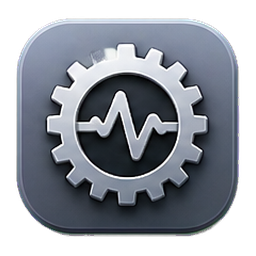
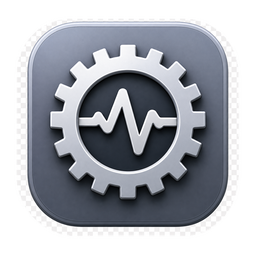
Add code editor AI retry support

diff --git a/src/styles/remote-desktop/_code-editor.scss b/src/styles/remote-desktop/_code-editor.scss
@@ -573,14 +573,6 @@
 .code-editor-ai-message {
   margin-bottom: 10px;
 
-  > span {
-    display: block;
-    margin-bottom: 4px;
-    color: var(--muted);
-    font-size: 11px;
-    font-weight: 720;
-  }
-
   > p {
     margin: 0;
     white-space: pre-wrap;
@@ -624,6 +616,46 @@
   .ai-chat-code-block pre {
     max-height: 260px;
     padding: 10px;
+  }
+}
+
+.code-editor-ai-message-meta {
+  display: flex;
+  min-width: 0;
+  align-items: center;
+  justify-content: space-between;
+  gap: 8px;
+  margin-bottom: 4px;
+
+  span {
+    min-width: 0;
+    color: var(--muted);
+    font-size: 11px;
+    font-weight: 720;
+  }
+
+  button {
+    display: inline-flex;
+    flex: 0 0 auto;
+    align-items: center;
+    gap: 4px;
+    border: 0;
+    border-radius: 5px;
+    background: transparent;
+    color: var(--muted);
+    padding: 2px 4px;
+    font-size: 11px;
+    cursor: pointer;
+
+    &:hover:not(:disabled) {
+      background: rgba(67, 199, 255, 0.1);
+      color: var(--text);
+    }
+
+    &:disabled {
+      cursor: not-allowed;
+      opacity: 0.45;
+    }
   }
 }
 

diff --git a/src/ai/usePiAgent.ts b/src/ai/usePiAgent.ts
@@ -10,6 +10,7 @@ import type {
   SimpleStreamOptions,
   ToolCall,
   Usage,
+  UserMessage,
 } from '@earendil-works/pi-ai';
 import { Agent } from '@earendil-works/pi-agent-core';
 import type { AgentEvent, AgentMessage, AgentTool } from '@earendil-works/pi-agent-core';
@@ -38,6 +39,10 @@ interface BackendMessageCommitOptions {
 }
 
 type BackendMessageCommit = (message: AssistantMessage, options?: BackendMessageCommitOptions) => void;
+
+interface SendMessageOptions {
+  retryFromMessageId?: string;
+}
 
 function isAssistantMessage(message: AgentMessage): message is AssistantMessage {
   return typeof message === 'object' && message !== null && 'role' in message && message.role === 'assistant';
@@ -421,6 +426,7 @@ export function usePiAgent(config: UsePiAgentConfig) {
   const agentRef = useRef<Agent | null>(null);
   const unsubscribeRef = useRef<(() => void) | null>(null);
   const assistantMessageIdsRef = useRef(new WeakMap<AssistantMessage, string>());
+  const messageIdToAgentMessageRef = useRef(new Map<string, AgentMessage>());
   const isMountedRef = useRef(true);
   const isConfigured = isAiConfigured(config.settings);
 
@@ -441,6 +447,7 @@ export function usePiAgent(config: UsePiAgentConfig) {
     agentRef.current?.abort();
     agentRef.current = null;
     assistantMessageIdsRef.current = new WeakMap();
+    messageIdToAgentMessageRef.current = new Map();
   }, []);
 
   const commitAssistantMessage = useCallback((message: AssistantMessage, options?: BackendMessageCommitOptions) => {
@@ -449,6 +456,7 @@ export function usePiAgent(config: UsePiAgentConfig) {
     const content = getMessageText(message);
 
     if (content.trim()) {
+      messageIdToAgentMessageRef.current.set(id, message);
       setMessages((prev) => upsertMessage(prev, {
         id,
         role: 'assistant',
@@ -562,7 +570,7 @@ export function usePiAgent(config: UsePiAgentConfig) {
     disposeAgent();
   }, [disposeAgent]);
 
-  const sendMessage = useCallback(async (content: string) => {
+  const sendMessage = useCallback(async (content: string, options?: SendMessageOptions) => {
     const trimmedContent = content.trim();
 
     if (!trimmedContent || isBusy) {
@@ -581,20 +589,44 @@ export function usePiAgent(config: UsePiAgentConfig) {
       return;
     }
 
+    const timestamp = Date.now();
     const userMessage: AiMessage = {
       id: createMessageId(),
       role: 'user',
       content: trimmedContent,
-      createdAt: new Date().toISOString(),
+      createdAt: new Date(timestamp).toISOString(),
+    };
+    const agentUserMessage: UserMessage = {
+      role: 'user',
+      content: trimmedContent,
+      timestamp,
     };
 
-    setMessages((prev) => [...prev, userMessage]);
+    if (options?.retryFromMessageId) {
+      const targetAgentMessage = messageIdToAgentMessageRef.current.get(options.retryFromMessageId);
+      const targetAgentIndex = targetAgentMessage ? agent.state.messages.indexOf(targetAgentMessage) : -1;
+
+      if (targetAgentIndex >= 0) {
+        agent.state.messages = agent.state.messages.slice(0, targetAgentIndex);
+      } else {
+        agent.state.messages = [];
+      }
+    }
+
+    messageIdToAgentMessageRef.current.set(userMessage.id, agentUserMessage);
+    setMessages((prev) => {
+      const targetUiIndex = options?.retryFromMessageId
+        ? prev.findIndex((message) => message.id === options.retryFromMessageId)
+        : -1;
+      const nextMessages = targetUiIndex >= 0 ? prev.slice(0, targetUiIndex) : prev;
+      return [...nextMessages, userMessage];
+    });
     setError('');
     setIsBusy(true);
     setBusyText(t('auto.aiChat.thinking', config.language));
 
     try {
-      await agent.prompt(trimmedContent);
+      await agent.prompt(agentUserMessage);
     } catch (err) {
       if (isMountedRef.current) {
         setError(err instanceof Error ? err.message : String(err));

diff --git a/src/components/remote-desktop/RemoteCodeEditor.tsx b/src/components/remote-desktop/RemoteCodeEditor.tsx
@@ -251,6 +251,14 @@ function CodeEditorAiPanel({
     void sendMessage(`${prompt}\n\nProject root: ${projectRoot}`);
   }, [draft, isBusy, isConfigured, projectRoot, sendMessage]);
 
+  const retryPrompt = useCallback((messageId: string, content: string) => {
+    if (isBusy || !isConfigured) {
+      return;
+    }
+
+    void sendMessage(content, { retryFromMessageId: messageId });
+  }, [isBusy, isConfigured, sendMessage]);
+
   const messagesScrollKey = messages.map((message) => `${message.id}:${message.content}`).join('\x1e');
 
   useEffect(() => {
@@ -281,7 +289,20 @@ function CodeEditorAiPanel({
         {messages.length === 0 && isConfigured ? <div className="code-editor-ai-empty">{t('codeEditor.ai.empty', language)}</div> : null}
         {messages.map((message) => (
           <article key={message.id} className={`code-editor-ai-message ${message.role}`}>
-            <span>{message.role === 'assistant' ? t('auto.aiChat.assistant', language) : t('auto.aiChat.user', language)}</span>
+            <div className="code-editor-ai-message-meta">
+              <span>{message.role === 'assistant' ? t('auto.aiChat.assistant', language) : t('auto.aiChat.user', language)}</span>
+              {message.role === 'user' ? (
+                <button
+                  type="button"
+                  onClick={() => retryPrompt(message.id, message.content)}
+                  disabled={isBusy || !isConfigured}
+                  title={t('codeEditor.ai.retry', language)}
+                >
+                  <RefreshCw size={12} />
+                  {t('codeEditor.ai.retry', language)}
+                </button>
+              ) : null}
+            </div>
             {message.role === 'assistant'
               ? <MarkdownMessage content={message.content} />
               : <p data-i18n-skip>{message.content}</p>}